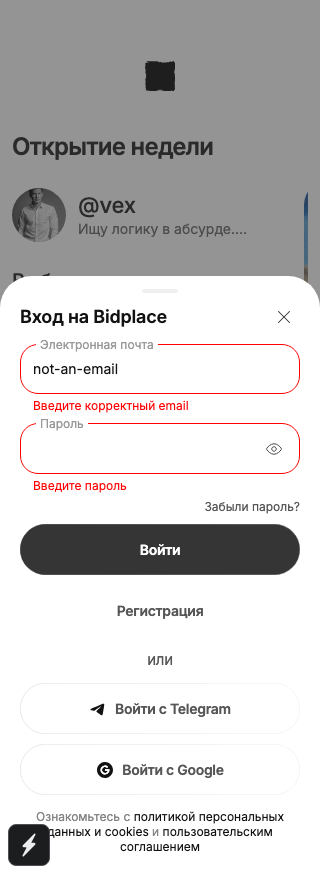
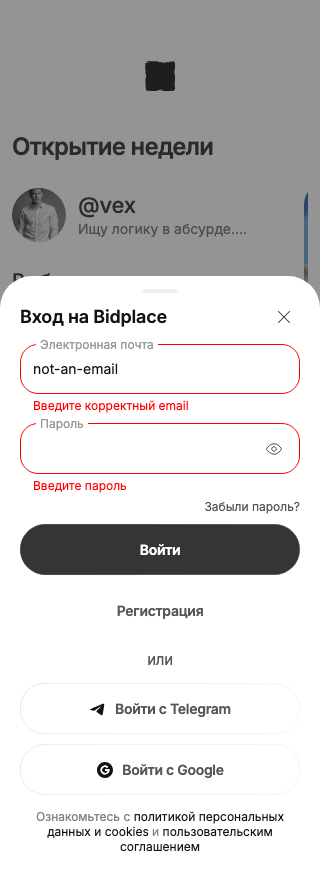
docs(waves-5-11 review C): login re-acceptance — clean evidence, measurements, W11-01 notes
- evidence: 14 PNG regenerated with dev-overlay suppressed (2 engines)
- README: W11-03 overlay owner (@expo/log-box fast-refresh, dev-only),
  icons claim corrected; W11-02 expected/actual/delta measurement table
  (geometry within ±1px; three honest style deltas to NEEDS-FIGMA);
  W11-01 css-zoom-reflow naming, scroll/keyboard results, real zoom and
  text enlargement marked Needs verification with manual instructions
- RESOLUTIONS.md: package C (W11-01..03) with evidence, checks, residual
  risks

Changed region(s): [[0.0, 0.9268, 0.1562, 1.0]]

diff --git a/docs/audits/current/evidence/2026-10-16-login-sheet/README.md b/docs/audits/current/evidence/2026-10-16-login-sheet/README.md
@@ -1,7 +1,8 @@
 # Login sheet Figma 7008:20543 — acceptance — 2026-10-16
 
-Base: `a37ad983` (branch `fix/draft-restore`). Wave 11 of the draft-restore
-corrected plan. Status: **Partial** — совпадение подтверждено по ZIP-снимку,
+Base: `a37ad983` (branch `fix/draft-restore`), evidence regenerated on
+`fix/draft-restore` после пакета C повторного ревью (W11-03, см. ниже).
+Status: **Partial** — совпадение подтверждено по ZIP-снимку,
 live-Figma сверка не выполнялась (см. «Источник»).
 
 ## Источник
@@ -14,14 +15,14 @@ live-Figma сверка не выполнялась (см. «Источник»)
 
 ## Mapping узел → компонент
 
-| Figma (7008:…) | Компонент приложения |
-| --- | --- |
-| 20754 шторка входа (390×545 hug) | `AuthViewport` (bottom-sheet, radius 32 top) |
-| Поля email / пароль | `TextField` / `FigmaTextField` (350×51, pad 13/12) |
-| «Войти» / «Регистрация» | `FigmaButton` size `auth` (350×51, solid / ghost) |
-| «Забыли пароль?» | ссылка 12px #565656, right-aligned |
-| «или» + Telegram/Google | outline-кнопки под общим разделителем |
-| Legal-копия | `AuthLegalText`, 12px center |
+| Figma (7008:…)                   | Компонент приложения                               |
+| -------------------------------- | -------------------------------------------------- |
+| 20754 шторка входа (390×545 hug) | `AuthViewport` (bottom-sheet, radius 32 top)       |
+| Поля email / пароль              | `TextField` / `FigmaTextField` (350×51, pad 13/12) |
+| «Войти» / «Регистрация»          | `FigmaButton` size `auth` (350×51, solid / ghost)  |
+| «Забыли пароль?»                 | ссылка 12px #565656, right-aligned                 |
+| «или» + Telegram/Google          | outline-кнопки под общим разделителем              |
+| Legal-копия                      | `AuthLegalText`, 12px center                       |
 
 Layout-контракт: шторка hug по вертикали (контент 545px на 390×874), ширина
 100% до `sheetMax`, вертикальный gap 14, pad 8/20/20/20, гибкая раскладка
@@ -32,25 +33,114 @@ sheetRadius 32, loginGap 14, loginFormGap 10, handle 36×4, высота auth-к
 
 ## Расхождения (осознанно НЕ исправлялись)
 
-| # | Что | Figma | Приложение | Решение |
-| --- | --- | --- | --- | --- |
-| 1 | Кнопка «×» в шапке шторки | нет | есть (dismissal/a11y-контракт) | оставить; NEEDS-FIGMA |
-| 2 | «Показать пароль» (глаз) в поле | нет | есть (a11y) | оставить; NEEDS-FIGMA |
-| 3 | Legal-копия | «Продолжая, вы принимаете политику…» | «Ознакомьтесь с политикой… и пользовательским соглашением» | копия принадлежит product/legal; NEEDS-FIGMA/product |
-| 4 | Иконки в полях/кнопках | плейсхолдеры экспорта | у приложения иконок нет | совпадение |
+| #   | Что                             | Figma                                | Приложение                                                             | Решение                                                    |
+| --- | ------------------------------- | ------------------------------------ | ---------------------------------------------------------------------- | ---------------------------------------------------------- |
+| 1   | Кнопка «×» в шапке шторки       | нет                                  | есть (dismissal/a11y-контракт)                                         | оставить; NEEDS-FIGMA                                      |
+| 2   | «Показать пароль» (глаз) в поле | нет                                  | есть (a11y)                                                            | оставить; NEEDS-FIGMA                                      |
+| 3   | Legal-копия                     | «Продолжая, вы принимаете политику…» | «Ознакомьтесь с политикой… и пользовательским соглашением»             | копия принадлежит product/legal; NEEDS-FIGMA/product       |
+| 4   | Иконки у кнопок провайдеров     | плейсхолдеры экспорта                | реальные глифы (Telegram, Google) — есть и в reference, и в приложении | совпадение по смыслу; формально глифы ≠ плейсхолдеры Figma |
 
 Визуал приложения приёмки не менялся: экран уже построен под узел 7008:20543,
 волна 11 — приёмка и фиксация расхождений, а не редизайн.
 
+## W11-03 — «молния» в левом нижнем углу Chromium-снимков
+
+Установлен владелец: dev-only индикатор Fast Refresh от Expo
+(`@expo/log-box`, div `.__expo_fast_refresh`, position fixed, z-index 9999,
+42×42, тёмный квадрат со светлой молнией). Это dev-хром инструментария, не
+контент приложения; в production-сборке отсутствует. Появляется после
+пересборки бандла в dev-режиме и перемонтируется на каждое refresh-событие,
+поэтому попадал в capture-регион sheet-only снимков.
+
+В `login-figma-acceptance.spec.ts` добавлено подавление (init-script со
+стилем `display: none !important` + сокрытие перед каждым снимком) — asserts
+не менялись. Скриншоты пересняты 2026-10-16 (2/2 Chromium + WebKit), молния
+не присутствует; legal-копия читается полностью.
+
+Примечание: на полностраничных снимках (…-390x874 и др.) над шторкой виден
+чёрный квадрат контентной области ленты (hero-изображение «Открытие недели»
+рендерится чёрным в sandbox-окружении, медиа-хост в пробе не заглушен). Это
+фон страницы за шторкой, вне контракта #auth-sheet и вне скоупа приёмки.
+
+## Измерения (W11-02) — expected/actual/delta
+
+Expected: геометрия parent-relative из `nodes.json` ZIP-снимка (root 7008:20543,
+шторка 7008:20754); типографика/цвета — из style-узлов ZIP. Actual: computed
+values (getBoundingClientRect/getComputedStyle) на Chromium 390×874,
+координаты относительно #auth-sheet. Снято 2026-10-16.
+
+| Элемент            | Метрика           | Figma (ZIP)                                           | Приложение                       | Δ                           |
+| ------------------ | ----------------- | ----------------------------------------------------- | -------------------------------- | --------------------------- |
+| Шторка             | box               | 390×545                                               | 390×545                          | 0                           |
+| Граббер            | box / fill        | (177,13) 36×4 / #EFEFEF                               | (177,13) 36×4 / #EFEFEF          | 0                           |
+| Заголовок          | box / типографика | (20,28) 350×26 / 18·600·lh26 #121212                  | идентично                        | 0                           |
+| Поле email         | box               | (20,68) 350×51                                        | (20,68) 350×50                   | −1 (округление 0.5px-рамки) |
+| Поле email         | рамка             | 1px #999999                                           | 1px #8A8A8A                      | цвет (см. расхождения)      |
+| Поле email         | плейсхолдер       | 14·400·lh24 #999999                                   | 14·400·lh24 #8A8A8A              | цвет                        |
+| Поле пароль        | box               | (20,129) 350×51                                       | (20,128) 350×51                  | −1                          |
+| «Забыли пароль?»   | box / текст       | y=186, h15 / 12·400 #565656 right                     | y=185, h15 / 12·400 #565656      | −1                          |
+| «Войти»            | box               | (20,211) 350×51, фон #121212                          | (20,210) 350×51                  | −1                          |
+| «Войти»            | лейбл             | 14·500·lh26 #FFFFFF                                   | 14·600·lh26 #FFFFFF              | насыщенность 500→600        |
+| «Регистрация»      | box / лейбл       | (20,272) 350×51 / 14·600 #565656                      | идентично                        | 0                           |
+| «или»              | box / текст       | (20,337) 350×18 / 15·400 #565656                      | (20,336) 350×19 / 15·400 #565656 | ±1                          |
+| «Войти с Telegram» | box / лейбл       | (20,369) 350×51 / 14·600 #565656                      | идентично                        | 0                           |
+| «Войти с Google»   | box / лейбл       | (20,430) 350×51 / 14·600 #565656                      | идентично                        | 0                           |
+| Legal              | box / текст       | (20,495) 350×30 / 12·400, переменная Gray 1 (#565656) | (20,495) 350×30 / 12·400 #858585 | 0 / цвет                    |
+
+Итог: геометрия совпадает в пределах ±1px (накопление от 0.5px-рамок),
+структурные отступы (8/20/20/20, gap 14/10) совпадают численно. Три честных
+расхождения по стилям, **не исправлялись** (нет редизайна в волне приёмки):
+
+1. Рамка и плейсхолдер поля: приложение использует семантическую роль `muted`
+   (#8A8A8A), ZIP задаёт #999999.
+2. Насыщенность лейбла «Войти»: приложение 600 (типографика общей матрицы
+   кнопок), ZIP — 500.
+3. Цвет legal-текста: приложение #858585, ZIP — Gray 1 (#565656).
+
+Все три — на решение NEEDS-FIGMA/product вместе с копией legal и «×»/«глаз».
+
+Переименованная граница проверок: overflow-проверка в пробе — это отсутствие
+горизонтального overflow на уровне страницы (`scrollWidth ≤ innerWidth`) на
+320/414/440×874 и короткой области 390×400, плюс видимость шторки; доступность
+содержимого внутри scroll-owner и короткая область — в W11-01 ниже.
+
+## W11-01 — zoom, скролл-доступность, клавиатура
+
+- **CSS zoom** переименован в пробе в `css-zoom-reflow` (`style.zoom = '2'`):
+  это не browser zoom. Проверяется: нет горизонтального overflow на уровне
+  страницы, «Войти» остаётся в вьюпорте.
+- **Реальный browser zoom (Ctrl/⌘ +)**: Playwright/Chromium CDP не эмулирует
+  десктопный zoom страницы (page scale factor — это pinch-zoom без reflow;
+  device metrics — DPI, не zoom). Статус: **Needs verification**, ручная
+  инструкция: открыть `expo start --web`, на `/login` нажать Ctrl/⌘ «+» до
+  200%, убедиться, что шторка рефлоится без горизонтальной прокрутки и
+  «Войти» reachable; записать движок и масштаб.
+- **Увеличение текста** (настройка размера шрифта браузера): автоматической
+  эмуляции нет. Статус: **Needs verification**, ручная инструкция: в
+  настройках Chromium «Очень крупный» шрифт, повторить те же наблюдения.
+- **Скролл-доступность на короткой области** (390×400): у шторки есть
+  scroll-owner (`scrollHeight > clientHeight`); email, пароль, «Войти»,
+  «Войти с Google» и обе legal-ссылки достижимы прокруткой — каждая цель
+  `scrollIntoViewIfNeeded` → `toBeInViewport` + `toBeVisible`. Проверено в
+  обоих движках.
+- **Клавиатурный обход**: Tab достигает каждого интерактивного контрола
+  шторки в DOM-порядке (включая обе legal-ссылки), Shift+Tab идёт обратно
+  (двусторонняя проверка; начальная парковка фокуса на контейнере Radix
+  обходится walk-forward с капом, asserts не ослаблены). Проверено в обоих
+  движках.
+
 ## Проверки
 
-| Check | Actual result |
-| --- | --- |
-| Acceptance probe `apps/mobile/e2e/login-figma-acceptance.spec.ts`, Chromium + WebKit | 2 passed |
-| Скриншоты #auth-sheet 390×874 + error-state, оба движка | 14 PNG в папке |
-| Overflow-проверка 320/414/440 ×874 и 390×400 (short sheet) | нет вертикального overflow |
-| Zoom 200% (a11y reflow) | шторка масштабируется без clipping |
-| Полное сравнение со скриншотом reference (чтение кропов) | структура 1:1, посторонних глифов нет |
+| Check                                                                                | Actual result                                                                                                   |
+| ------------------------------------------------------------------------------------ | --------------------------------------------------------------------------------------------------------------- |
+| Acceptance probe `apps/mobile/e2e/login-figma-acceptance.spec.ts`, Chromium + WebKit | 2 passed (первичный прогон и пересъёмка после W11-03; расширенный прогон W11-01 — 2/2)                          |
+| Скриншоты #auth-sheet 390×874 + error-state, оба движка                              | 14 PNG в папке (пересняты 2026-10-16, dev-overlay подавлен)                                                     |
+| Overflow-проверка 320/414/440 ×874 и 390×400 (short sheet)                           | нет горизонтального overflow на уровне страницы, шторка видима                                                  |
+| CSS zoom 200% (css-zoom-reflow)                                                      | шторка рефлоится без горизонтального overflow, «Войти» в вьюпорте                                               |
+| Скролл-доступность 390×400                                                           | все контролы и обе legal-ссылки reachable через scroll-owner                                                    |
+| Клавиатурный обход Tab/Shift+Tab                                                     | весь интерактивный порядок шторки доступен в обе стороны                                                        |
+| Реальный browser zoom 200% и увеличение текста                                       | Needs verification — ручная инструкция выше; автоматической эмуляции нет                                        |
+| Полное сравнение со скриншотом reference (чтение кропов)                             | структура 1:1; единственный посторонний глиф — dev-overlay Expo, владелец установлен (W11-03), из снимков убран |
 
 Команда: `cd apps/mobile && corepack pnpm exec playwright test
 e2e/login-figma-acceptance.spec.ts` (стек API+web поднимается прогоном сам;

diff --git a/docs/audits/2026-10-16-WAVES-5-11-RESOLUTIONS.md b/docs/audits/2026-10-16-WAVES-5-11-RESOLUTIONS.md
@@ -132,3 +132,56 @@ SHA кода и доков — в заголовках коммитов ниже
 - **Проверки**: не требуются (документ).
 - **Оставшийся риск**: файл остаётся очередью областей; закрытие PL-01/PL-02
   прежнего аудита частично (карта есть, реестр постоянных цветов нет).
+
+## Пакет C — повторная приёмка login (W11-01, W11-02, W11-03)
+
+SHA кода: `339fe9b1` (тест), доки/evidence — коммит ниже.
+
+### W11-03 — «молния» в левом нижнем углу Chromium-снимков
+
+- **Исправление**: владелец установлен доказательно — dev-only индикатор
+  Fast Refresh Expo (`@expo/log-box`; div `.__expo_fast_refresh`, fixed,
+  z-index 9999, 42×42, SVG-молния fill #ECEDEE; в DOM появляется после
+  пересборки бандла и перемонтируется на refresh-события). Не контент
+  приложения, в production-сборке отсутствует. В спек приёмки добавлено
+  подавление (init-script `display:none !important` + сокрытие перед каждым
+  снимком); asserts не менялись. Утверждение «у приложения иконок нет»
+  исправлено: глифы Telegram/Google есть и в reference, и в приложении.
+- **Доказательство**: до подавления снимок воспроизводил байт-в-байт; после —
+  молния отсутствует, legal-копия читается полностью; 14 PNG пересняты
+  (Chromium + WebKit, 2/2).
+- **Проверки**: `login-figma-acceptance.spec.ts` 2/2 обоих движков.
+- **Оставшийся риск**: на полностраничных снимках над шторкой виден чёрный
+  квадрат hero-изображения ленты («Открытие недели») — sandbox-окружение не
+  заглушает медиа-хост; фон за шторкой, вне контракта #auth-sheet.
+
+### W11-02 — измерения geometry/typography против ZIP
+
+- **Исправление**: таблица expected/actual/delta в README evidence
+  (координаты parent-relative из nodes.json против getBoundingClientRect/
+  getComputedStyle на Chromium 390×874). Проверки переименованы по фактическим
+  гарантиям (overflow-проверка — горизонтальная, на уровне страницы).
+- **Доказательство**: геометрия совпадает в пределах ±1px (0.5px-рамки),
+  отступы/gap численно равны. Три честных расхождения, не исправлялись
+  (без редизайна): рамка+плейсхолдер поля #8A8A8A (роль `muted`) против
+  #999999 в ZIP; насыщенность лейбла «Войти» 600 против 500; legal #858585
+  против Gray 1 (#565656). Все — NEEDS-FIGMA/product.
+- **Проверки**: замеры выполнены воспроизводимым probe-прогоном в e2e-стеке.
+- **Оставшийся риск**: замеры — один движок (Chromium); WebKit сверен
+  визуально по скриншотам, не численно.
+
+### W11-01 — zoom, скролл-доступность, клавиатура
+
+- **Исправление**: CSS zoom переименован в `css-zoom-reflow` (это не browser
+  zoom). Добавлены: скролл-доступность на 390×400 (scroll-owner существует;
+  поля, «Войти», «Войти с Google» и обе legal-ссылки reachable); двусторонний
+  клавиатурный обход Tab/Shift+Tab по всему интерактивному порядку шторки.
+  Реальный browser zoom и увеличение текста: автоматической эмуляции в
+  Playwright/CDP нет — честный Needs verification с ручной инструкцией в
+  README (не выдаём за проверенное).
+- **Доказательство**: 2/2 Chromium + WebKit на расширенном спеке; asserts не
+  ослаблены (walk-forward с капом против парковки фокуса Radix, затем строгий
+  порядок).
+- **Проверки**: спека + tsc/eslint/prettier чисто.
+- **Оставшийся риск**: ручные zoom/text-scale проверки ещё не выполнены
+  основателем; до них заявление «полная a11y-приёмка» не делается.
